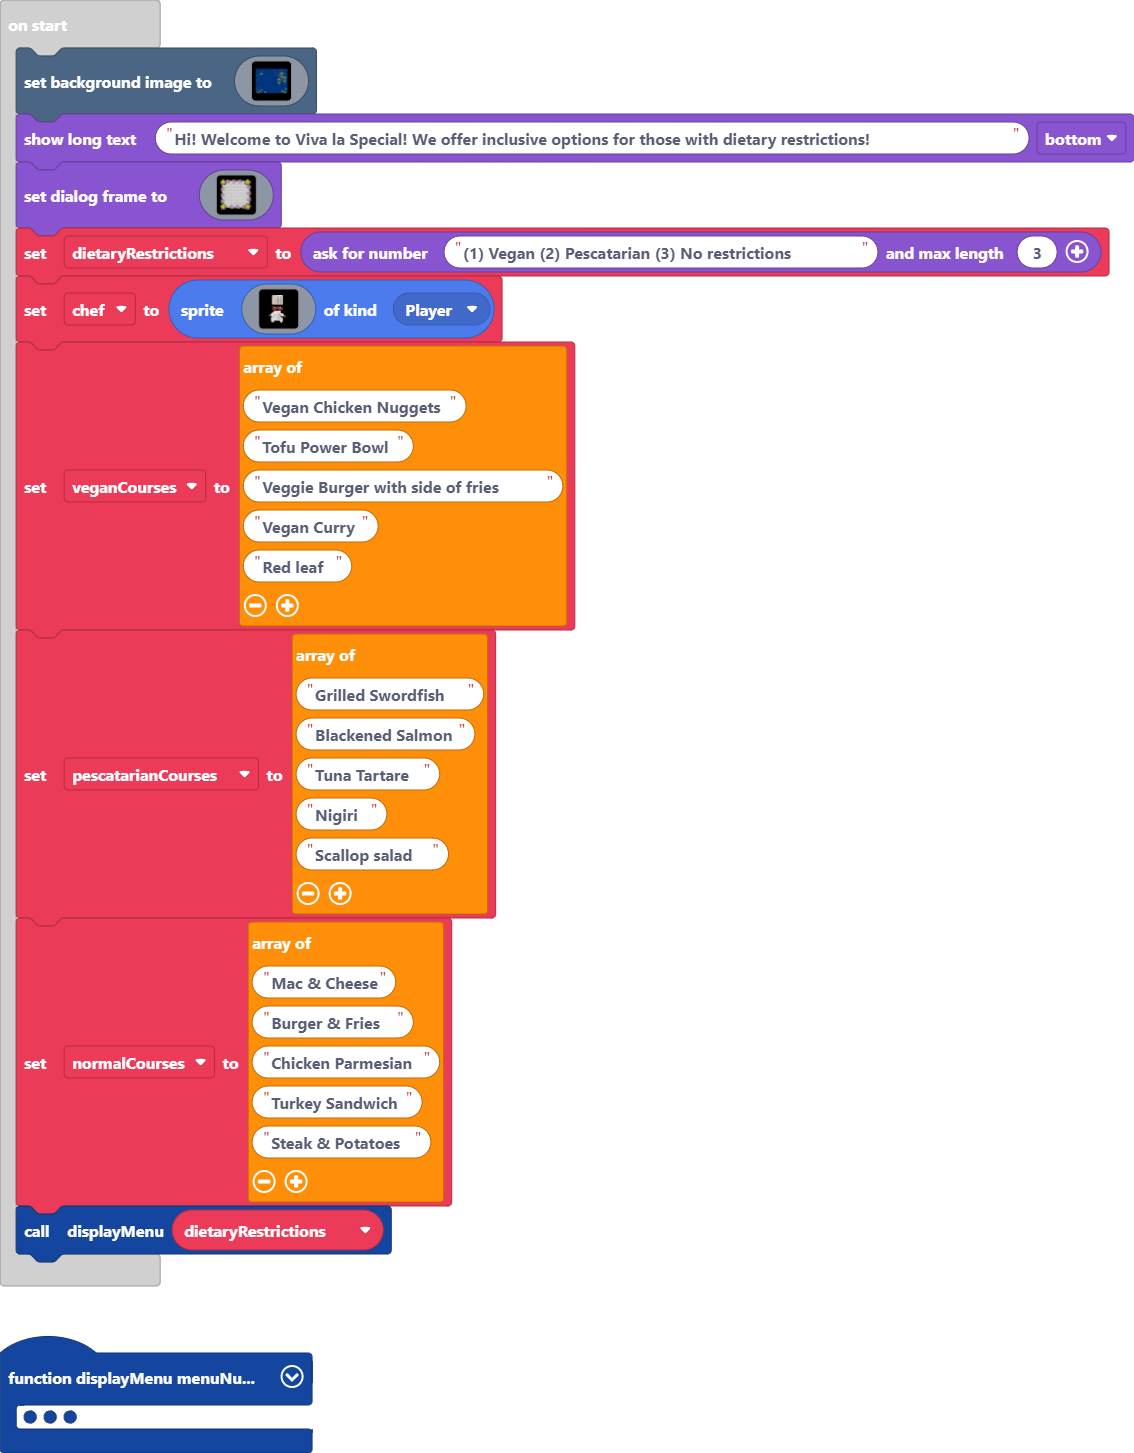
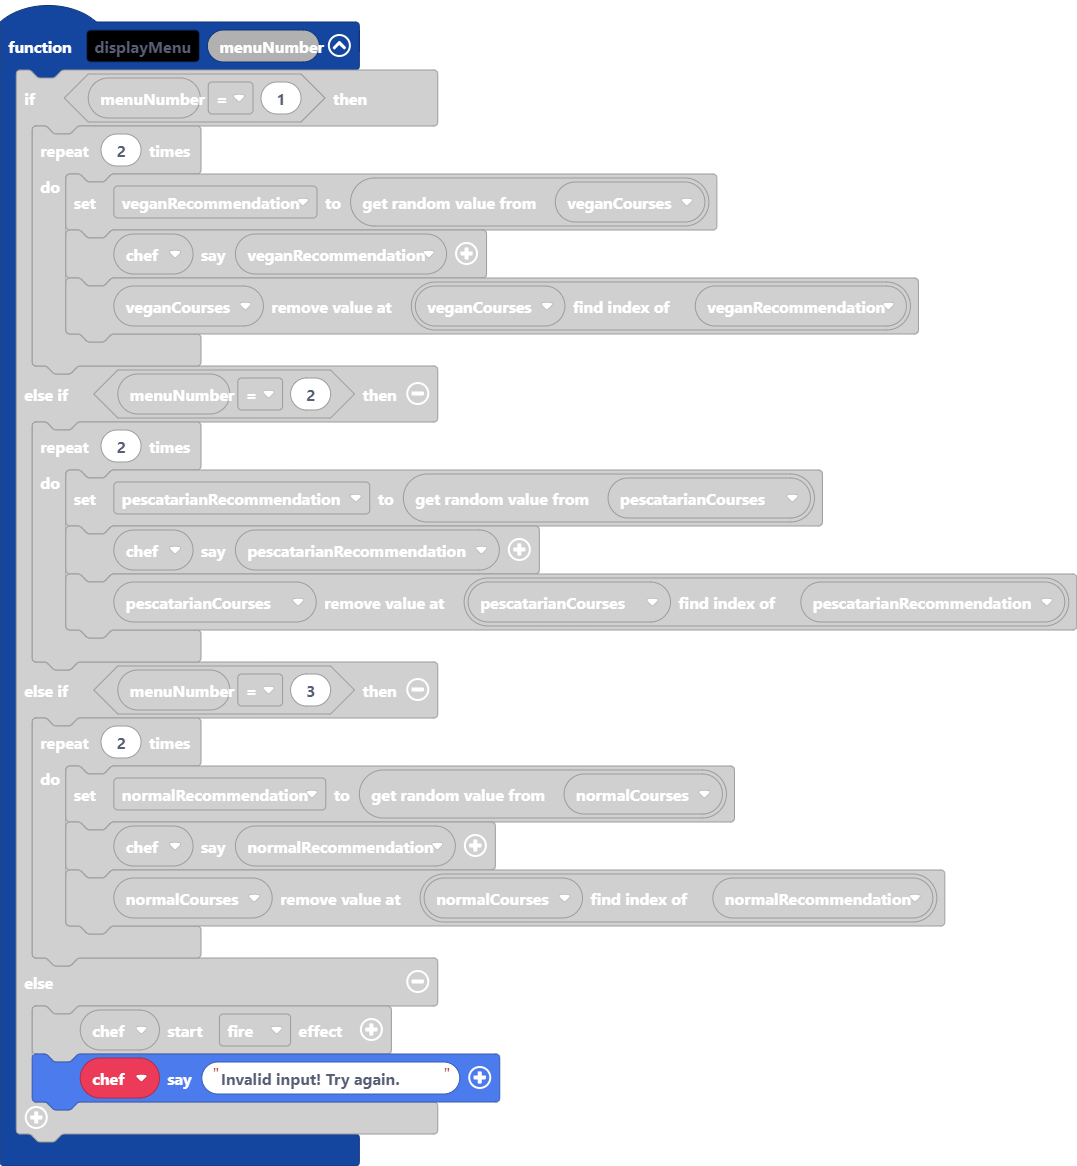
Update main.blocks, main.ts

diff --git a/main.ts b/main.ts
@@ -19,6 +19,7 @@ function displayMenu (menuNumber: number) {
         }
     } else {
         chef.startEffect(effects.fire)
+        chef.sayText("Invalid input! Try again.")
     }
 }
 let normalRecommendation = ""
